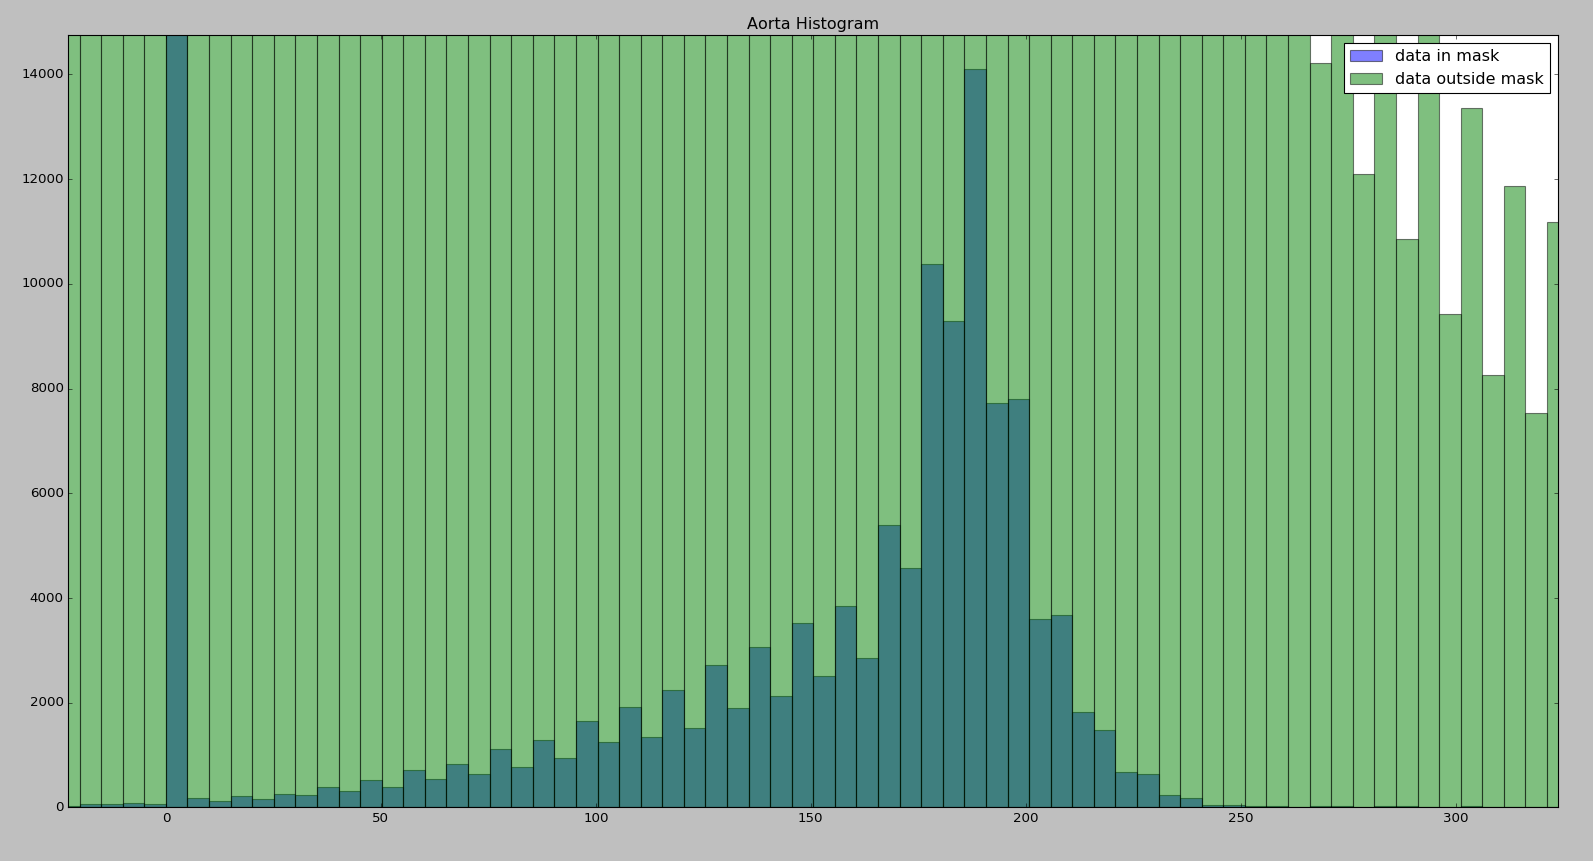
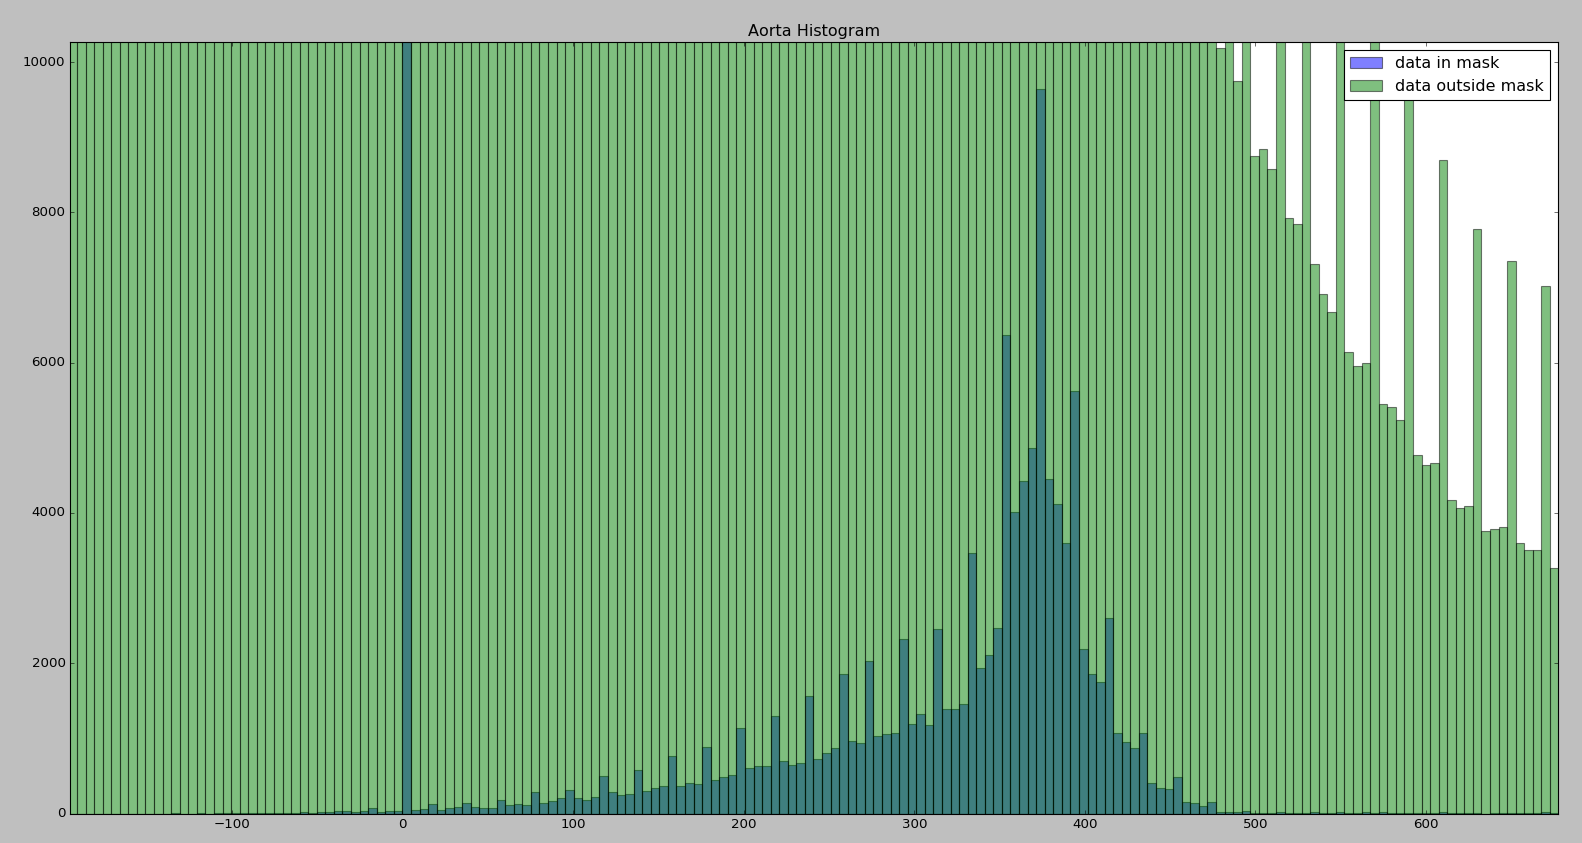
histograms

diff --git a/scripts/calculate_test_data_histograms.py b/scripts/calculate_test_data_histograms.py
@@ -19,8 +19,7 @@ import io3d
 TEST_DATA_DIR = "../test_data"
 
 def compute_mask_histograms(
-    data3d, mask, histogram_title="Histogram",
-    old_mode=512, new_mode=1024 ): # TODO - remove nan->0 from histograms
+    data3d, mask, histogram_title="Histogram"): # TODO - remove nan->0 from histograms
     """
     By default rescales values from <-512,511> mode to <-1024,1023> mode.
     Since io3d uses 512 mode, but ImageJ uses 1024 mode.
@@ -35,7 +34,7 @@ def compute_mask_histograms(
     data_outside_mask[mask == 1] = 0
     # show combined histogram
 
-    bins = np.linspace(-new_mode, new_mode, (new_mode*2)//5)
+    bins = np.linspace(-1024, 1024, (1024*2)//5)
     plt.hist(data_in_mask[np.isfinite(data_in_mask)], bins, alpha=0.5, label='data in mask')
     plt.hist(data_outside_mask[np.isfinite(data_outside_mask)], bins, alpha=0.5, label='data outside mask')
     plt.legend(loc='upper right')
@@ -49,6 +48,9 @@ def main():
     logger.info("load PATIENT_DICOM data")
     datap = io3d.read(os.path.join(TEST_DATA_DIR, "PATIENT_DICOM"), dataplus_format=True)
     data3d = datap["data3d"]
+    # temporary fix for io3d <-512;511> value range bug
+    if np.max(data3d) <= 511 and np.min(data3d) >= -512:
+        data3d = data3d * 2
 
     # remove pixel noise
     logger.info("Using median filter")
